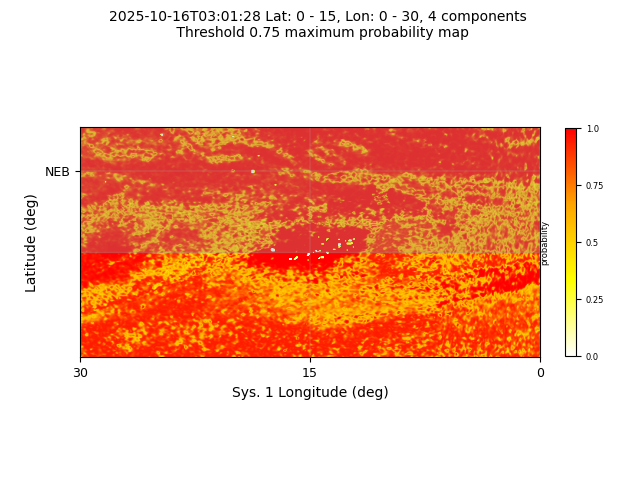
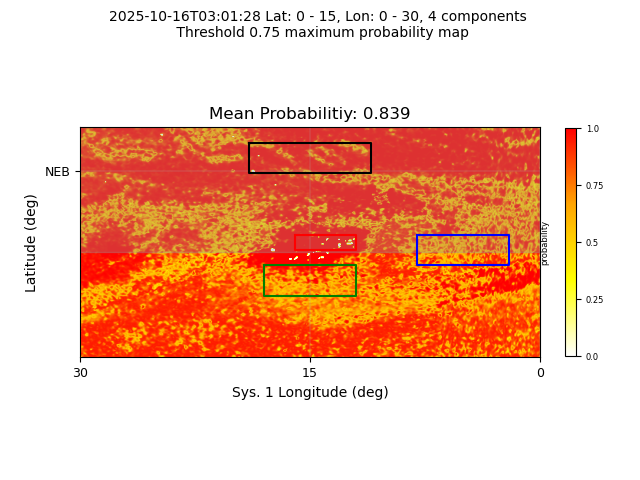
feat: add mean and ROI plotting to max probability map

diff --git a/scripts/posterior_prob.py b/scripts/posterior_prob.py
@@ -49,7 +49,7 @@ def create_uncertainty_fig(keywords, probs, indices, subset_shape, latRng, lngRn
      output_file_name = PLP.create_file_name(keywords, latRng, lngRng, n_comp, "posterior_probs", cm_num, threshold)
      fig.savefig(output_file_name)
 
-def create_max_prob_map(keywords, probs, indices, subset_shape, latRng, lngRng, cm_num, n_comp, threshold):
+def create_max_prob_map(keywords, probs, indices, subset_shape, latRng, lngRng, cm_num, n_comp, threshold, ROI):
     """
      Purpose
      --------------
@@ -58,10 +58,12 @@ def create_max_prob_map(keywords, probs, indices, subset_shape, latRng, lngRng, 
      """
     fig, ax = pl.subplots(1, 1)
     max_probs = np.max(probs, axis = 1)
+    mean = round(np.mean(max_probs), 3)
     cmap = LinearSegmentedColormap.from_list("cluster_color", ["white", "yellow", "orange", "red"], N = 256)
     max_prob_map = MP.create_cluster_arr(indices, subset_shape, max_probs)
-    MP.plot_patch(max_prob_map, latRng, lngRng, cmap, {}, ax, 0, 1, "", cm_num, fig, True, True, "probability")
+    MP.plot_patch(max_prob_map, latRng, lngRng, cmap, ROI, ax, 0, 1, "", cm_num, fig, True, True, "probability")
     fig.suptitle(PLP.create_plot_title(keywords, latRng, lngRng, n_comp, threshold, "maximum probability map"), fontsize = 10)
+    ax.set_title(f"Mean Probabilitiy: {mean}")
     output_file_name = PLP.create_file_name(keywords, latRng, lngRng, n_comp, "max_prob_map", cm_num, threshold)
     fig.savefig(output_file_name)
 

diff --git a/scripts/processes.py b/scripts/processes.py
@@ -86,7 +86,7 @@ def output_cluster_map_and_plot(date, keywords, param_ranges,
     # cluster probability maps
     indices = input_arr[:, input_arr.shape[1] - 1]
     PP.create_uncertainty_fig(keywords, probs, indices, subset_shape, latRng, lngRng, cm_num, n_comp, threshold)
-    PP.create_max_prob_map(keywords, probs, indices, subset_shape, latRng, lngRng, cm_num, n_comp, threshold)
+    PP.create_max_prob_map(keywords, probs, indices, subset_shape, latRng, lngRng, cm_num, n_comp, threshold, ROI)
 
 def output_cluster_map_and_plots(date, keywords, param_ranges, 
                            latRng = [85, 95], lngRng = [230, 240], 
